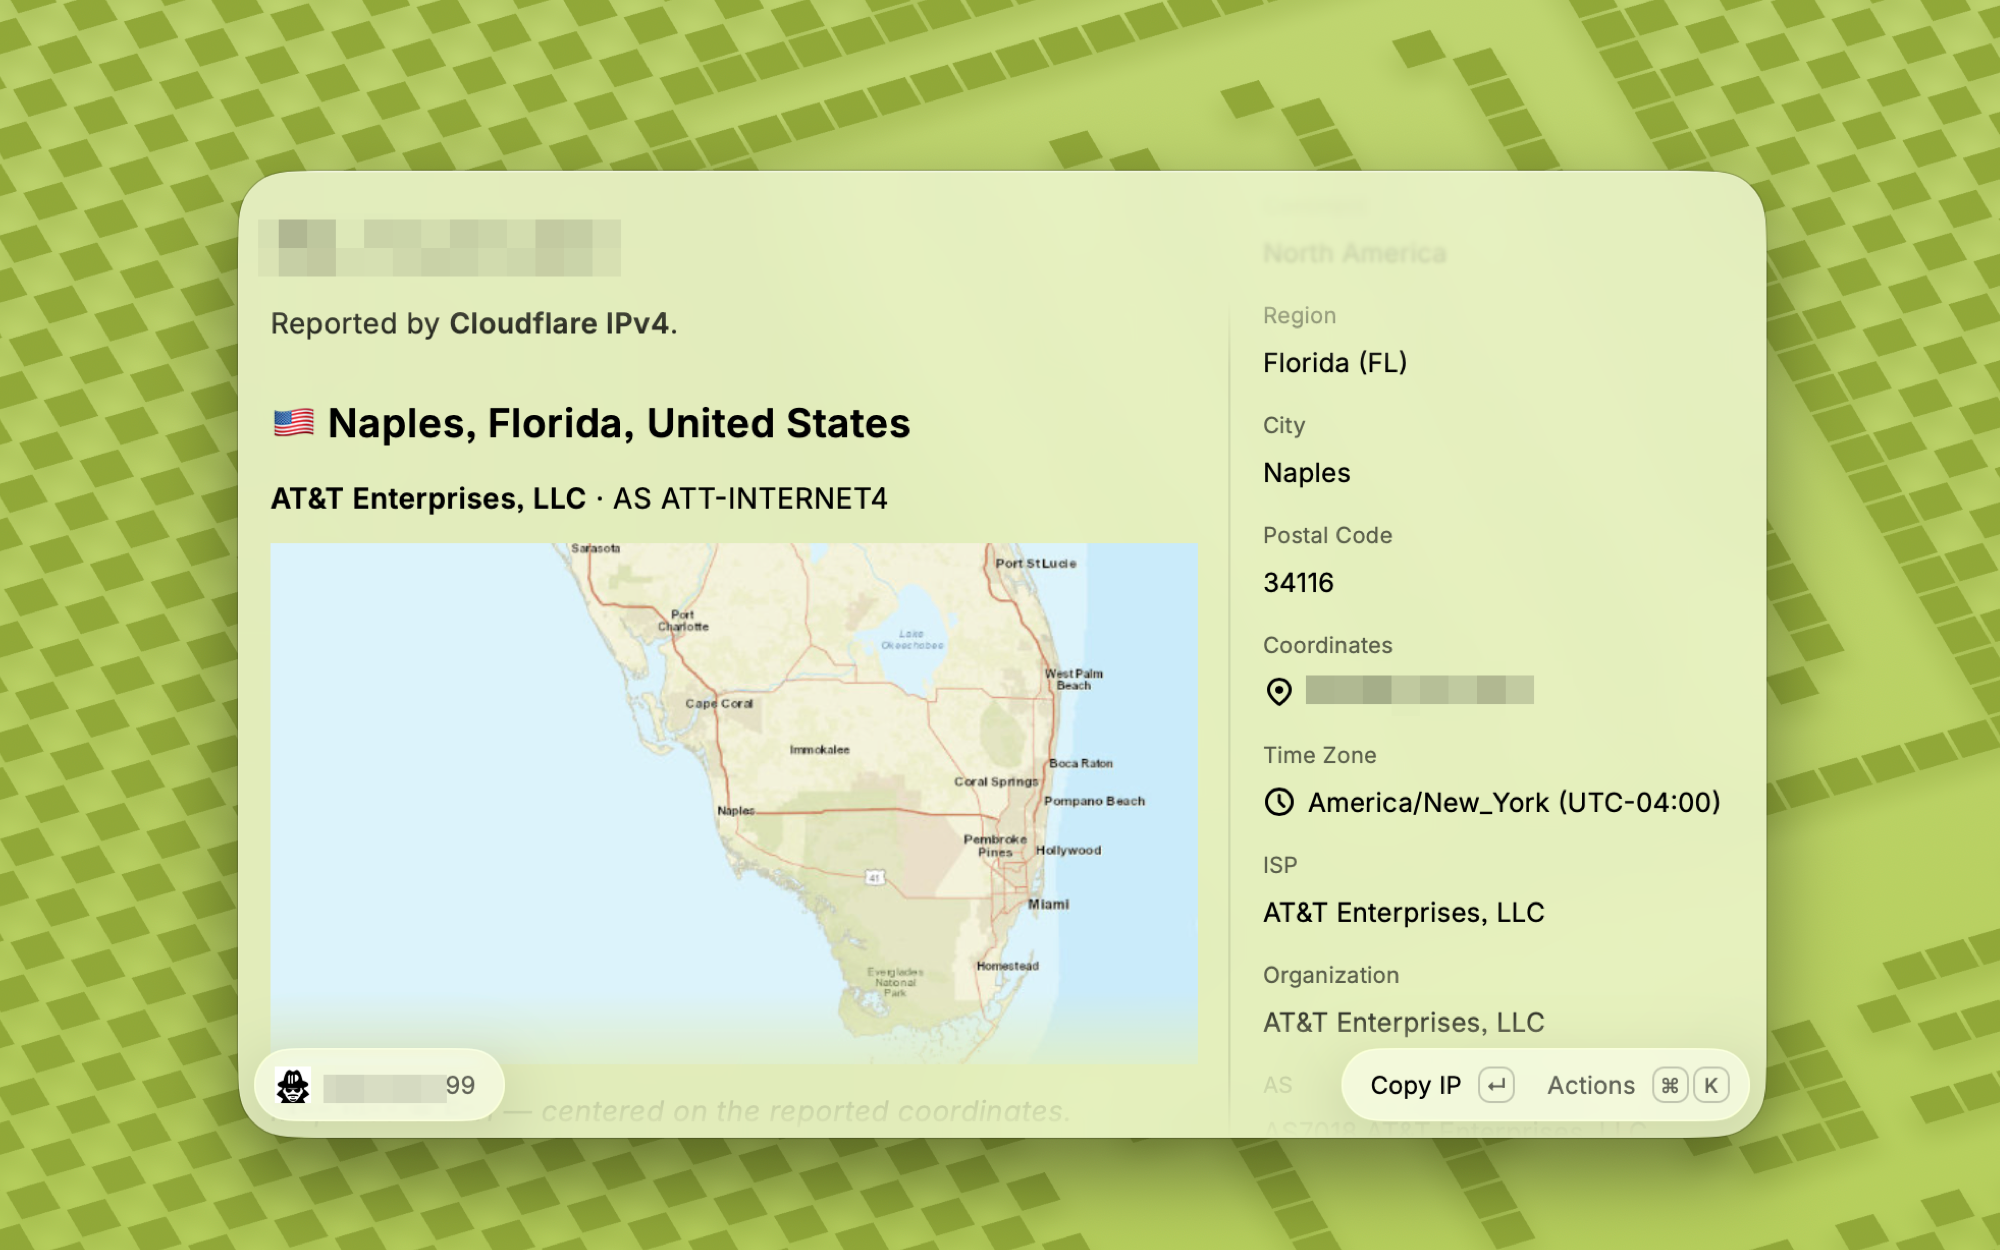
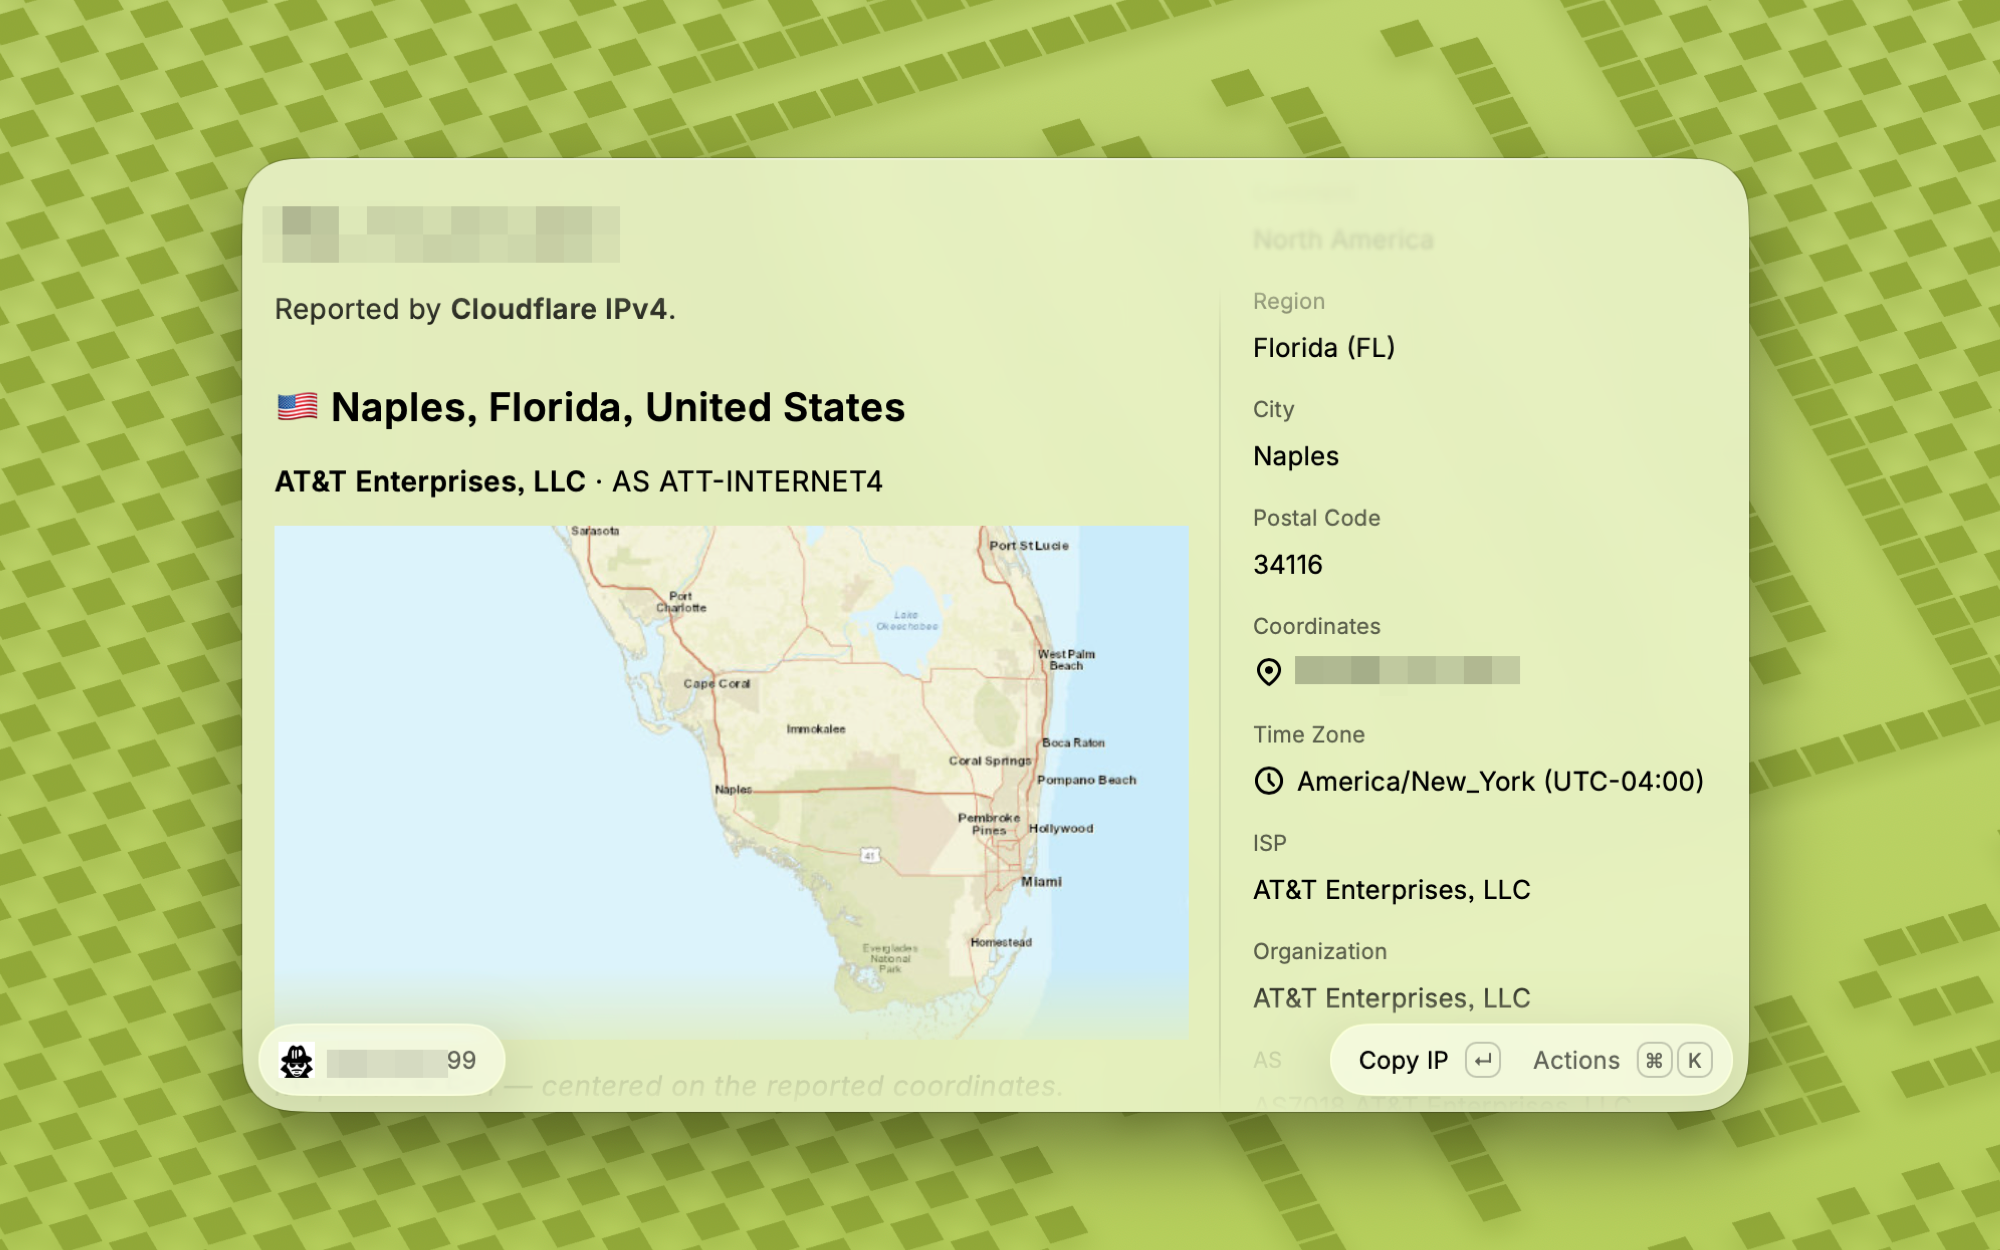
Improvements

Changed region(s): [[0.0, 0.0, 1.0, 1.0], [0.744, 0.9672, 0.775, 0.9984]]

diff --git a/src/lib/valid-ip.ts b/src/lib/valid-ip.ts
@@ -15,11 +15,13 @@ export function isValidIP(ip: string): boolean {
   const groups = doubleColonParts.flatMap((part) => (part === "" ? [] : part.split(":")));
 
   // An IPv4-mapped or IPv4-embedded tail ("::ffff:192.0.2.1") is a dotted quad in the last
-  // group, standing in for two hextets (RFC 4291 §2.5.5).
+  // group, standing in for two hextets (RFC 4291 §2.5.5). It must sit in the final 32 bits:
+  // after splitting on "::" the dotted quad can end up last in `groups` even when the
+  // address really ends with "::" ("192.0.2.1::"), so also check it ends the address.
   let hextetCount = groups.length;
   const lastGroup = groups[groups.length - 1];
   if (lastGroup !== undefined && lastGroup.includes(".")) {
-    if (!IPV4_PATTERN.test(lastGroup)) return false;
+    if (!address.endsWith(lastGroup) || !IPV4_PATTERN.test(lastGroup)) return false;
     groups.pop();
     hextetCount += 1;
   }
